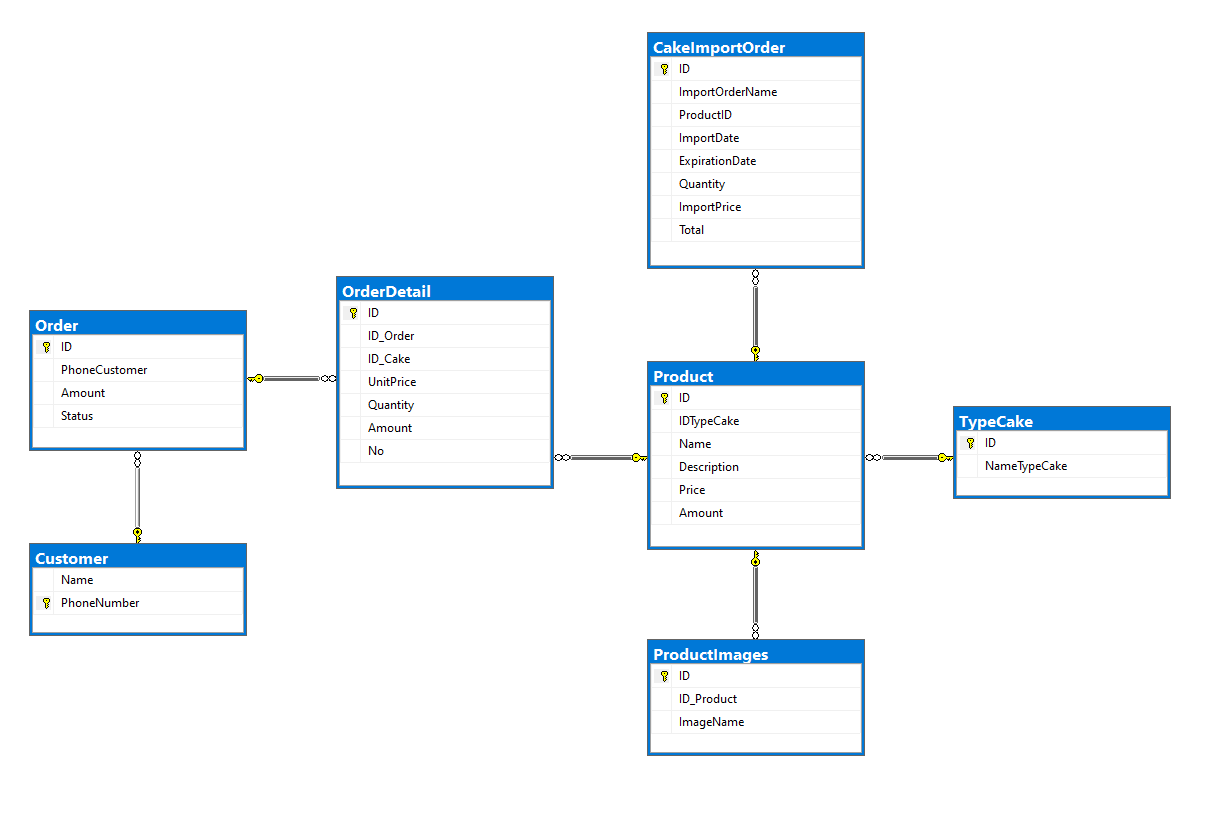
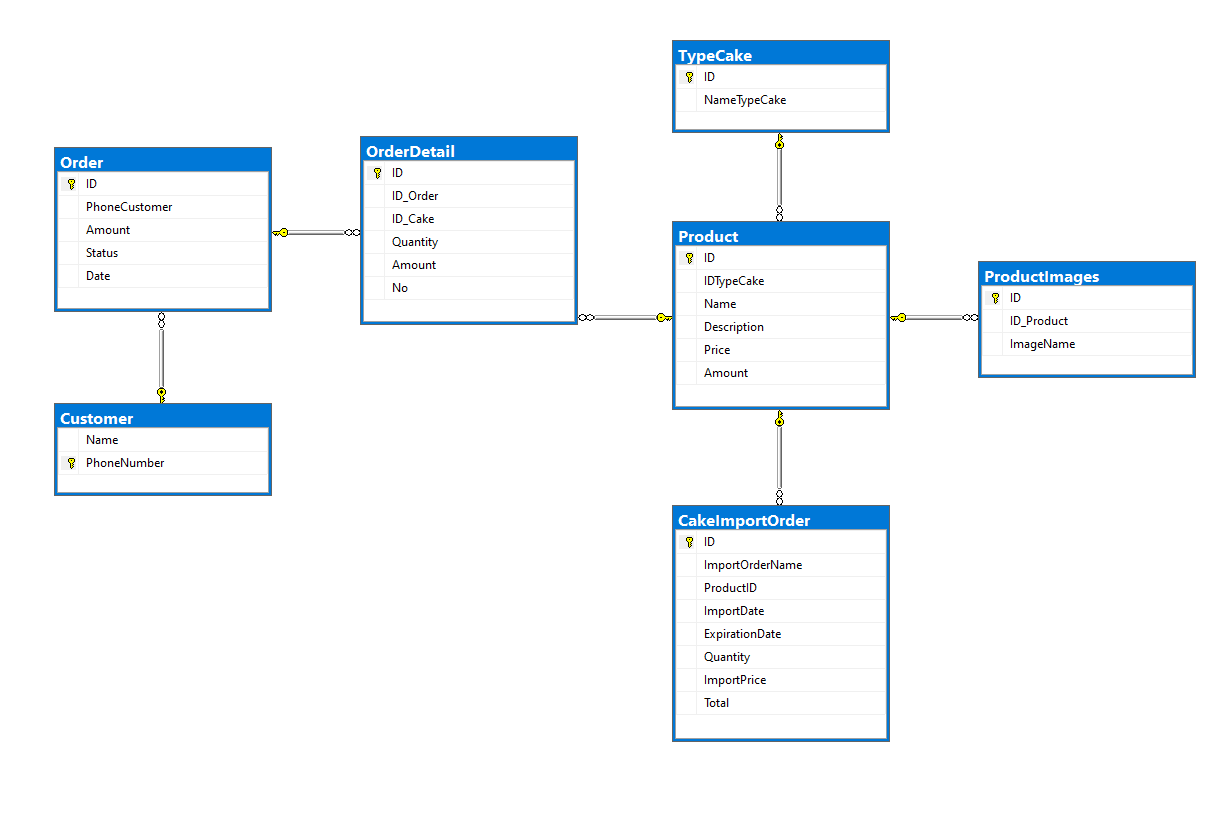
cập nhật DB + chuẩn bị

Changed region(s): [[0.0, 0.0306, 0.9753, 0.9486], [0.0, 0.6426, 0.2133, 0.7956]]

diff --git a/CakeShop/MainWindow.xaml b/CakeShop/MainWindow.xaml
@@ -619,11 +619,285 @@
                                     </StackPanel>
                                 </Grid>
                             </Fluent:BackstageTabItem>
-                            <Fluent:BackstageTabItem Header="Tạo Đơn Hàng" FontSize="15" FontWeight="DemiBold">
+                            <Fluent:BackstageTabItem x:Name="CartItem" Header="Giỏ Hàng" FontSize="15" FontWeight="DemiBold"
+                                                     MouseLeftButtonDown="BackstageTabItem_MouseLeftButtonDown">
+                                <Grid>
+                                    <Grid.RowDefinitions>
+                                        <RowDefinition Height="9.5*"/>
+                                        <!--<RowDefinition Height="0.5*"/>-->
+                                        <RowDefinition Height="0.5*"/>
+                                    </Grid.RowDefinitions>
+                                    <!--<ListView Grid.Row="0" Background="Transparent" Margin="20 20 80 20"
+                                              x:Name="detailCartListViewRibbon"
+                                              BorderBrush="Transparent"
+                                              Foreground="#fd5533"
+                                              ScrollViewer.HorizontalScrollBarVisibility="Disabled" ScrollViewer.VerticalScrollBarVisibility="Hidden">
+                                        <ListView.ItemsPanel>
+                                            <ItemsPanelTemplate>
+                                                <WrapPanel 
+                                                    HorizontalAlignment="Stretch"
+                                                    VerticalAlignment="Top"
+                                                />
+                                            </ItemsPanelTemplate>
+                                        </ListView.ItemsPanel>
+                                        <ListView.ItemContainerStyle>
+                                            <Style TargetType="ListViewItem">
+                                                <EventSetter Event="PreviewMouseLeftButtonDown" Handler="ListViewItem_PreviewMouseLeftButtonDown" />
+                                            </Style>
+                                        </ListView.ItemContainerStyle>
+                                        <ListView.ItemTemplate>
+                                            <DataTemplate>
+                                                <StackPanel Cursor="Hand" VerticalAlignment="Top" Orientation="Horizontal">
+                                                    <Grid  MouseDown="ItemProductPreview_MouseDown" Width="120" Height="120" HorizontalAlignment="Center">
+                                                        <Grid.Resources>
+                                                            <Style TargetType="{x:Type Border}" x:Key="styleBorder">
+                                                                <Style.Triggers>
+                                                                    <EventTrigger RoutedEvent="MouseEnter">
+                                                                        <BeginStoryboard>
+                                                                            <Storyboard>
+                                                                                <DoubleAnimation Duration="0:0:0.2" Storyboard.TargetProperty="Height" To="168" />
+                                                                                <DoubleAnimation Duration="0:0:0.2" Storyboard.TargetProperty="Width" To="280" />
+                                                                            </Storyboard>
+                                                                        </BeginStoryboard>
+                                                                    </EventTrigger>
+                                                                    <EventTrigger RoutedEvent="MouseLeave">
+                                                                        <BeginStoryboard>
+                                                                            <Storyboard>
+                                                                                <DoubleAnimation Duration="0:0:0.2" Storyboard.TargetProperty="Height" To="150" />
+                                                                                <DoubleAnimation Duration="0:0:0.2" Storyboard.TargetProperty="Width" To="250" />
+                                                                            </Storyboard>
+                                                                        </BeginStoryboard>
+                                                                    </EventTrigger>
+                                                                </Style.Triggers>
+                                                            </Style>
+                                                        </Grid.Resources>
+                                                        <Border x:Name="borderOfListView" 
+                                                                Margin="10"
+                                                                VerticalAlignment="Top"
+                                                                BorderBrush="#F73148"
+                                                                BorderThickness=".5"
+                                                                CornerRadius="18"
+                                                                Height="100" Width="100">
+                                                            <Border.Effect>
+                                                                <DropShadowEffect BlurRadius="5"
+                                                                                  Opacity=".5"
+                                                                                  ShadowDepth="3" />
+                                                            </Border.Effect>
+                                                            <Border Name="ReceiverColor"
+                                                                    BorderBrush="#F73148"
+                                                                    BorderThickness="0"
+                                                                    CornerRadius="15">
+                                                                <Canvas>
+                                                                    <Border Name="Mask"
+                                                                            Background="{StaticResource listCakeBackgroundColor}"
+                                                                            BorderBrush="#F73148"
+                                                                            BorderThickness=".5"
+                                                                            CornerRadius="13"
+                                                                            Height="100" Width="100">
+                                                                    </Border>
+                                                                    <StackPanel>
+                                                                        <Image x:Name="splashImg"
+                                                                               Stretch="Fill"
+                                                                               VerticalAlignment="Top"
+                                                                               Source="{Binding Thumbnail, Converter={StaticResource LinkImageOriginConverter}}"
+                                                                               Height="100" Width="100" />
 
+                                                                        <StackPanel.OpacityMask>
+                                                                            <VisualBrush Visual="{Binding ElementName=Mask}" />
+                                                                        </StackPanel.OpacityMask>
+                                                                    </StackPanel>
+                                                                </Canvas>
+                                                            </Border>
+                                                        </Border>
+                                                    </Grid>
+                                                    <TextBlock 
+                                                        Text="{Binding ID}"
+                                                        Visibility="Collapsed"
+                                                    />
+                                                </StackPanel>
+                                            </DataTemplate>
+                                        </ListView.ItemTemplate>
+                                    </ListView>-->
+                                    <StackPanel Orientation="Vertical" Grid.Row="0">
+                                        <Grid  MouseDown="ItemProductPreview_MouseDown" Width="120" Height="120" HorizontalAlignment="Center">
+                                            <Grid.Resources>
+                                                <Style TargetType="{x:Type Border}" x:Key="styleBorder">
+                                                    <Style.Triggers>
+                                                        <EventTrigger RoutedEvent="MouseEnter">
+                                                            <BeginStoryboard>
+                                                                <Storyboard>
+                                                                    <DoubleAnimation Duration="0:0:0.2" Storyboard.TargetProperty="Height" To="168" />
+                                                                    <DoubleAnimation Duration="0:0:0.2" Storyboard.TargetProperty="Width" To="280" />
+                                                                </Storyboard>
+                                                            </BeginStoryboard>
+                                                        </EventTrigger>
+                                                        <EventTrigger RoutedEvent="MouseLeave">
+                                                            <BeginStoryboard>
+                                                                <Storyboard>
+                                                                    <DoubleAnimation Duration="0:0:0.2" Storyboard.TargetProperty="Height" To="150" />
+                                                                    <DoubleAnimation Duration="0:0:0.2" Storyboard.TargetProperty="Width" To="250" />
+                                                                </Storyboard>
+                                                            </BeginStoryboard>
+                                                        </EventTrigger>
+                                                    </Style.Triggers>
+                                                </Style>
+                                            </Grid.Resources>
+                                            <Border x:Name="borderOfListViewtest" 
+                                                                Margin="10"
+                                                                VerticalAlignment="Top"
+                                                                BorderBrush="#F73148"
+                                                                BorderThickness=".5"
+                                                                CornerRadius="18"
+                                                                Height="100" Width="100">
+                                                <Border.Effect>
+                                                    <DropShadowEffect BlurRadius="5"
+                                                                                  Opacity=".5"
+                                                                                  ShadowDepth="3" />
+                                                </Border.Effect>
+                                                <Border Name="ReceiverColortest"
+                                                                    BorderBrush="#F73148"
+                                                                    BorderThickness="0"
+                                                                    CornerRadius="15">
+                                                    <Grid>
+                                                        <Border Name="Masktest"
+                                                                            Background="{StaticResource listCakeBackgroundColor}"
+                                                                            BorderBrush="#F73148"
+                                                                            BorderThickness=".5"
+                                                                            CornerRadius="13"
+                                                                            Height="100" Width="100">
+                                                        </Border>
+                                                        <StackPanel>
+
+                                                            <Image x:Name="splashImgtest"
+                                                                               Stretch="Fill"
+                                                                               VerticalAlignment="Top"
+                                                                               Source="Images/Background/cake-1850011_1920.jpg"
+                                                                               Height="100" Width="100" />
+
+                                                            <StackPanel.OpacityMask>
+                                                                <VisualBrush Visual="{Binding ElementName=Mask}" />
+                                                            </StackPanel.OpacityMask>
+                                                        </StackPanel>
+                                                    </Grid>
+                                                </Border>
+                                            </Border>
+                                        </Grid>
+                                        <Grid  MouseDown="ItemProductPreview_MouseDown" Width="120" Height="120" HorizontalAlignment="Center">
+                                            <Grid.Resources>
+                                                <Style TargetType="{x:Type Border}" x:Key="styleBorder">
+                                                    <Style.Triggers>
+                                                        <EventTrigger RoutedEvent="MouseEnter">
+                                                            <BeginStoryboard>
+                                                                <Storyboard>
+                                                                    <DoubleAnimation Duration="0:0:0.2" Storyboard.TargetProperty="Height" To="168" />
+                                                                    <DoubleAnimation Duration="0:0:0.2" Storyboard.TargetProperty="Width" To="280" />
+                                                                </Storyboard>
+                                                            </BeginStoryboard>
+                                                        </EventTrigger>
+                                                        <EventTrigger RoutedEvent="MouseLeave">
+                                                            <BeginStoryboard>
+                                                                <Storyboard>
+                                                                    <DoubleAnimation Duration="0:0:0.2" Storyboard.TargetProperty="Height" To="150" />
+                                                                    <DoubleAnimation Duration="0:0:0.2" Storyboard.TargetProperty="Width" To="250" />
+                                                                </Storyboard>
+                                                            </BeginStoryboard>
+                                                        </EventTrigger>
+                                                    </Style.Triggers>
+                                                </Style>
+                                            </Grid.Resources>
+                                            <Border x:Name="borderOfListViewtest1" 
+                                                                Margin="10"
+                                                                VerticalAlignment="Top"
+                                                                BorderBrush="#F73148"
+                                                                BorderThickness=".5"
+                                                                CornerRadius="18"
+                                                                Height="100" Width="100">
+                                                <Border.Effect>
+                                                    <DropShadowEffect BlurRadius="5"
+                                                                                  Opacity=".5"
+                                                                                  ShadowDepth="3" />
+                                                </Border.Effect>
+                                                <Border Name="ReceiverColortest1"
+                                                                    BorderBrush="#F73148"
+                                                                    BorderThickness="0"
+                                                                    CornerRadius="15">
+                                                    <Canvas>
+                                                        <Border Name="Masktest1"
+                                                                            Background="{StaticResource listCakeBackgroundColor}"
+                                                                            BorderBrush="#F73148"
+                                                                            BorderThickness=".5"
+                                                                            CornerRadius="13"
+                                                                            Height="100" Width="100">
+                                                        </Border>
+                                                        <StackPanel>
+
+                                                            <Image x:Name="splashImgtest1"
+                                                                               Stretch="Fill"
+                                                                               VerticalAlignment="Top"
+                                                                               Source="C:\Users\phong\Documents\GitHub\cake-shop\CakeShop\Images\Background\cake-1850011_1920.jpg"
+                                                                               Height="100" Width="100" />
+
+                                                            <StackPanel.OpacityMask>
+                                                                <VisualBrush Visual="{Binding ElementName=Mask}" />
+                                                            </StackPanel.OpacityMask>
+                                                        </StackPanel>
+                                                    </Canvas>
+                                                </Border>
+                                            </Border>
+                                        </Grid>
+                                    </StackPanel>
+                                    <StackPanel Orientation="Horizontal" HorizontalAlignment="Right" Visibility="Collapsed"
+                                                        Grid.Row="1" Margin="0 -25 40 35">
+                                        <Button x:Name="firstPageCartDetailBtn" Style="{StaticResource suggestWordButton}"
+                                                        Margin="5 0">
+                                            <Button.Content>
+                                                <Image Source="/Images/control-icon/first-page.png" MaxHeight="20"/>
+                                            </Button.Content>
+                                        </Button>
+                                        <Button x:Name="prevPageCartDetailBtn" Style="{StaticResource suggestWordButton}"
+                                                        Margin="5 0">
+                                            <Button.Content>
+                                                <Image Source="/Images/control-icon/prev-page.png" MaxHeight="20"/>
+                                            </Button.Content>
+                                        </Button>
+
+                                        <TextBox Text="1" FontSize="15"   Width="30" FontWeight="DemiBold"
+                                                       HorizontalContentAlignment="Center"
+                                                       VerticalContentAlignment="Center"/>
+                                        <Label Name="totalCartDetailPages" Content="/1" FontSize="20" 
+                                                       HorizontalContentAlignment="Center"
+                                                       VerticalContentAlignment="Center"/>
+
+                                        <Button x:Name="nextPageCartDetailBtn" Style="{StaticResource suggestWordButton}"
+                                                        Margin="5 0">
+                                            <Button.Content>
+                                                <Image Source="/Images/control-icon/next-page.png" MaxHeight="20"/>
+                                            </Button.Content>
+                                        </Button>
+                                        <Button x:Name="lastPageCartDetailBtn" Style="{StaticResource suggestWordButton}"
+                                                        Margin="5 0">
+                                            <Button.Content>
+                                                <Image Source="/Images/control-icon/last-page.png" MaxHeight="20"/>
+                                            </Button.Content>
+                                        </Button>
+                                    </StackPanel>
+                                    <StackPanel Grid.Row="2" Orientation="Horizontal" HorizontalAlignment="Right">
+                                        <Button x:Name="payCartBtn"
+                                                Content="Thanh Toán"
+                                                Margin="10 -10 50 10"
+                                                Padding="5"
+                                                FontSize="13"
+                                                Foreground="#0078D7"
+                                                Background="Transparent"
+                                                Style="{DynamicResource sgraykbtnstyle}"
+                                                Click="addItem_Click"/>
+
+                                    </StackPanel>
+                                </Grid>
                             </Fluent:BackstageTabItem>
                             <Fluent:SeparatorTabItem/>
-                            <Fluent:BackstageTabItem Header="Cài Đặt" FontSize="15" FontWeight="DemiBold">
+                            <Fluent:BackstageTabItem x:Name="SettingItem" Header="Cài Đặt" FontSize="15" FontWeight="DemiBold"
+                                                     MouseLeftButtonDown="BackstageTabItem_MouseLeftButtonDown">
 
                             </Fluent:BackstageTabItem>
                             <Fluent:SeparatorTabItem/>

diff --git a/CakeShop/MainWindow.xaml.cs b/CakeShop/MainWindow.xaml.cs
@@ -129,6 +129,12 @@ namespace CakeShop
                     query = QueryDB.Instance.getBindingCakeImport();
                     cakeImportOrderListViewRibbon.ItemsSource = query;
                     break;
+                case "CartItem":
+                    this.RibbonItem = ConstantVariable.RIBBON_PAYMENT;
+                    break;
+                case "SettingItem":
+                    this.RibbonItem = ConstantVariable.RIBBON_SETTING;
+                    break;
             }
         }
 

diff --git a/CakeShop/Order.cs b/CakeShop/Order.cs
@@ -24,6 +24,7 @@ namespace CakeShop
         public Nullable<int> PhoneCustomer { get; set; }
         public Nullable<int> Amount { get; set; }
         public Nullable<int> Status { get; set; }
+        public Nullable<System.DateTime> Date { get; set; }
     
         public virtual Customer Customer { get; set; }
         [System.Diagnostics.CodeAnalysis.SuppressMessage("Microsoft.Usage", "CA2227:CollectionPropertiesShouldBeReadOnly")]

diff --git a/CakeShop/OrderDetail.cs b/CakeShop/OrderDetail.cs
@@ -17,7 +17,6 @@ namespace CakeShop
         public int ID { get; set; }
         public Nullable<int> ID_Order { get; set; }
         public Nullable<int> ID_Cake { get; set; }
-        public Nullable<int> UnitPrice { get; set; }
         public Nullable<int> Quantity { get; set; }
         public Nullable<int> Amount { get; set; }
         public Nullable<int> No { get; set; }

diff --git a/CakeShop/ConstantVariable.cs b/CakeShop/ConstantVariable.cs
@@ -36,6 +36,8 @@ namespace CakeShop
         public const int RIBBON_TYPECAKE = 0;
         public const int RIBBON_CAKE = 1;
         public const int RIBBON_CAKEIMPORT = 2;
+        public const int RIBBON_PAYMENT = 3;
+        public const int RIBBON_SETTING = 4;
 
         public const int DURING_SPLASH_SCREEN = 10;
 
